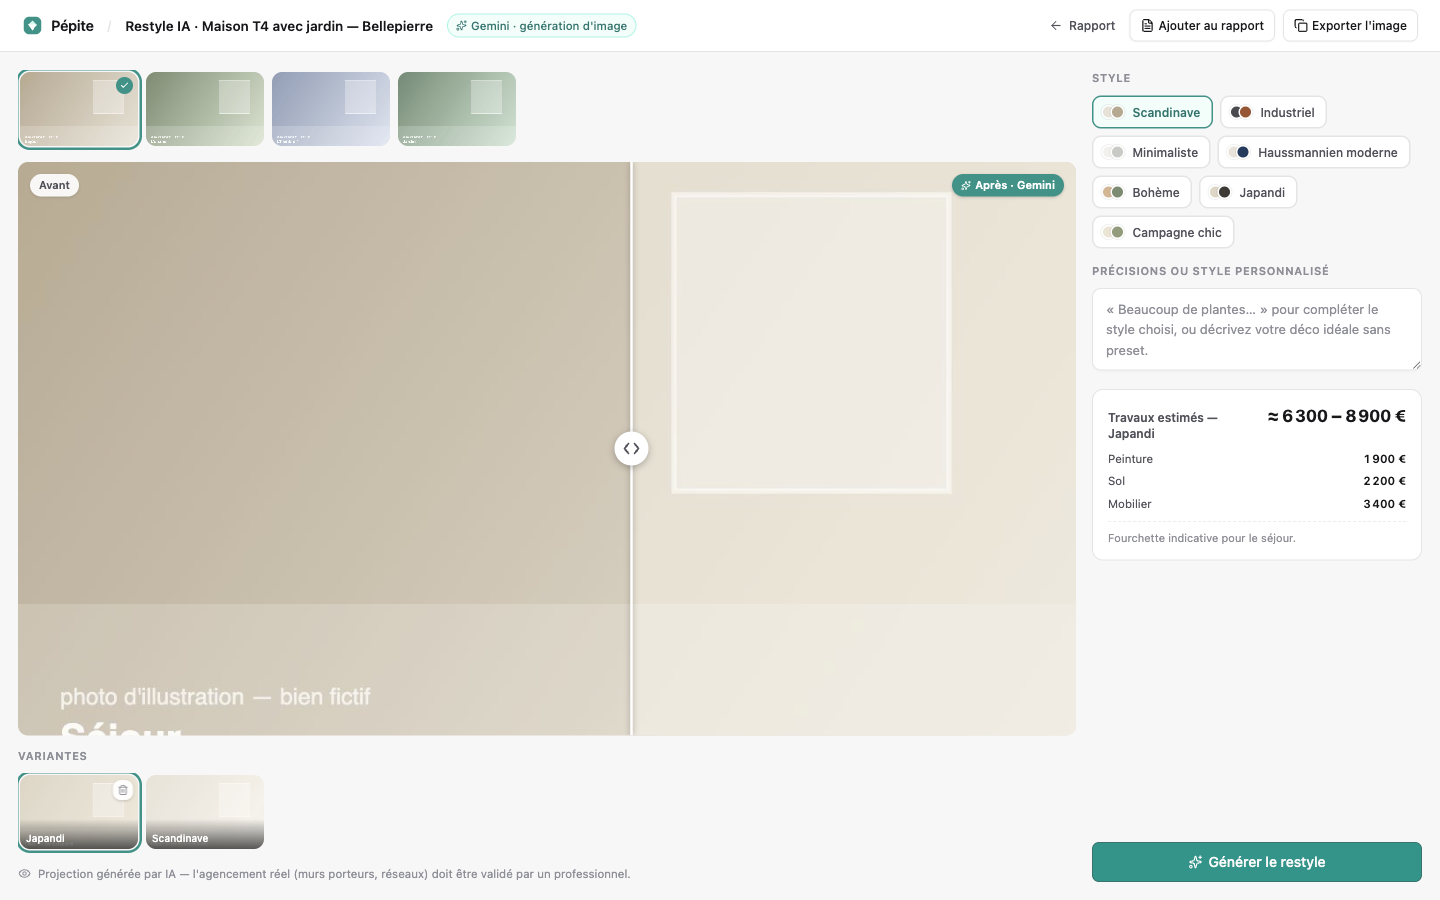
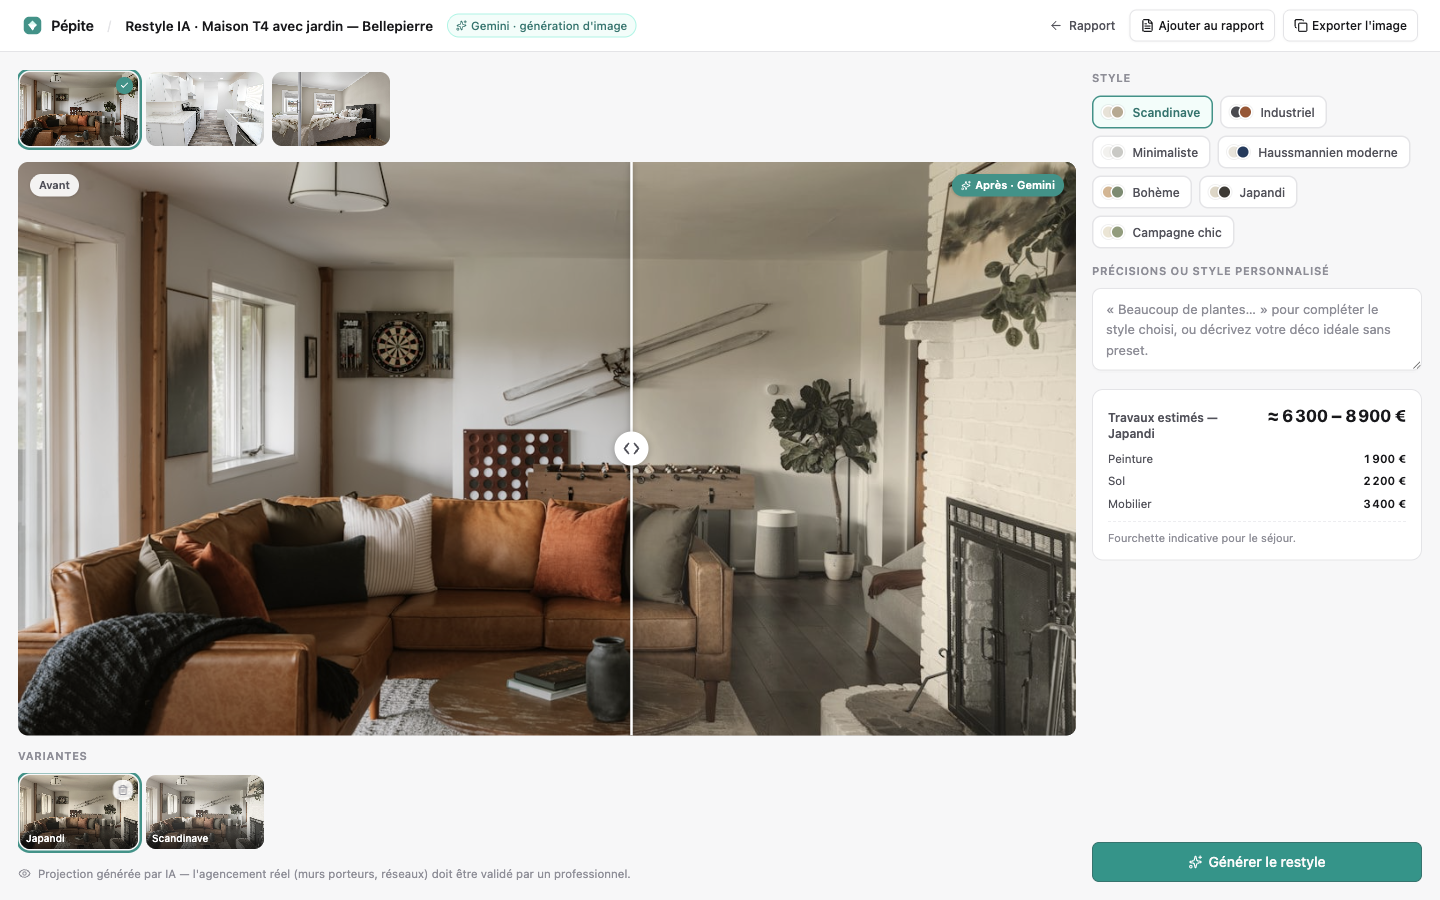
docs(readme): photos réelles (Unsplash) dans la galerie — historique, comparateur, studio restyle

diff --git a/README.md b/README.md
@@ -20,7 +20,7 @@ Leboncoin, SeLoger et Citya (parseurs dédiés, instantanés) ; autres sites imm
 
 ## Galerie
 
-*Captures sur un bien fictif de démonstration (photos d'illustration générées).*
+*Captures sur un bien fictif de démonstration — photos [Unsplash](https://unsplash.com/license), données et rendus restyle simulés pour l'illustration.*
 
 **Rapport complet** — synthèse IA, score global et recommandation :
 